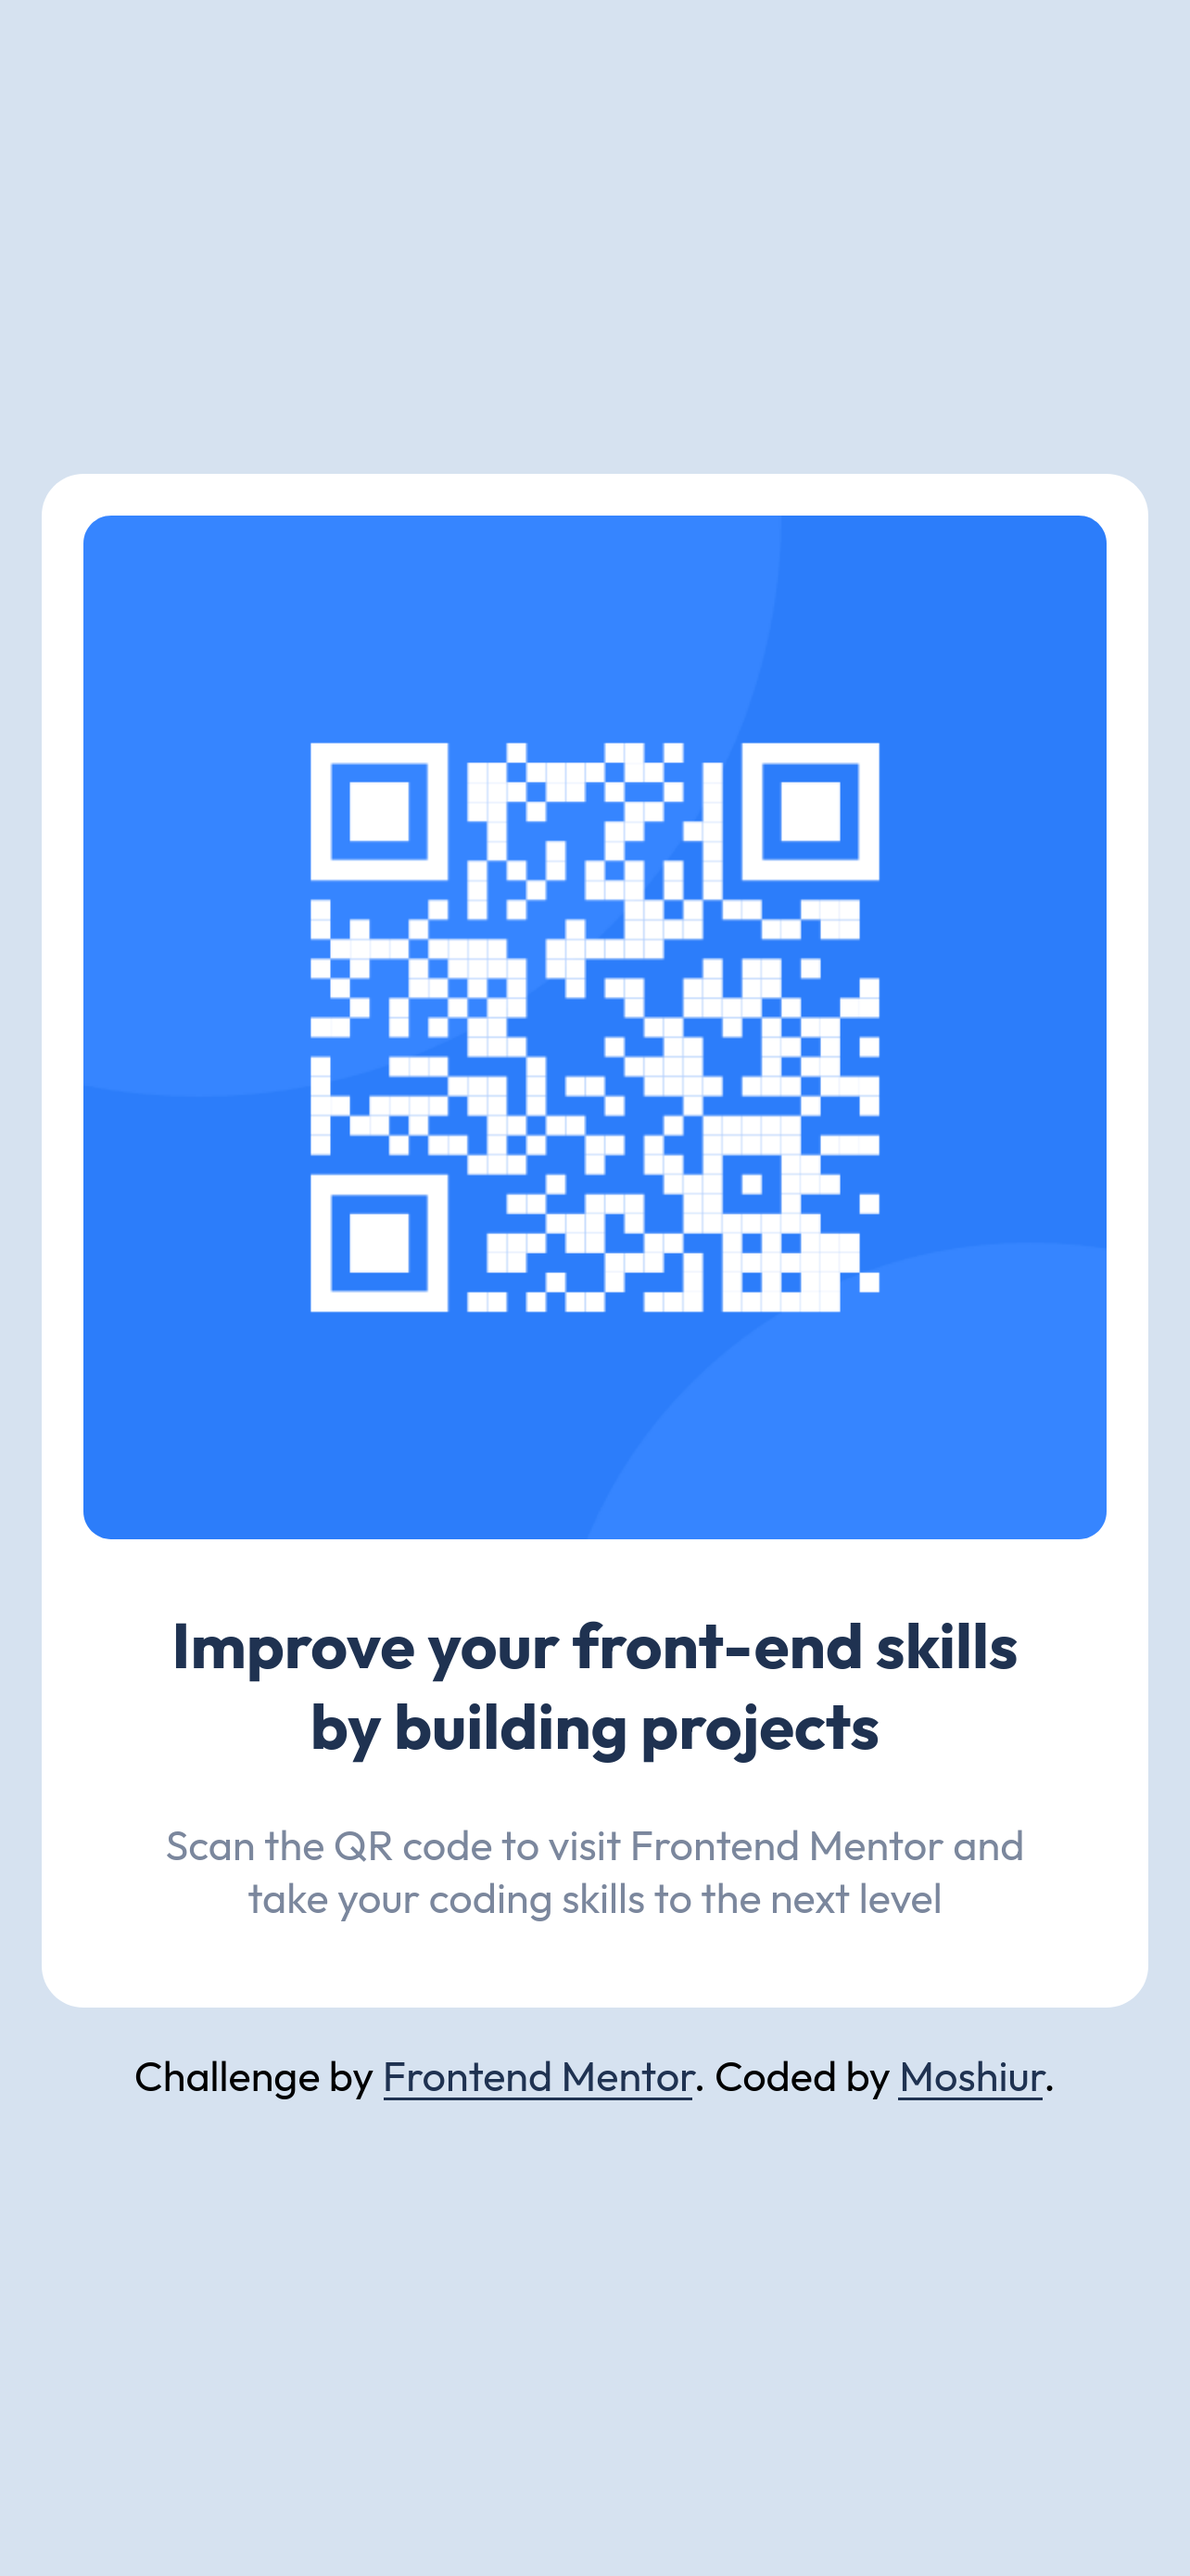
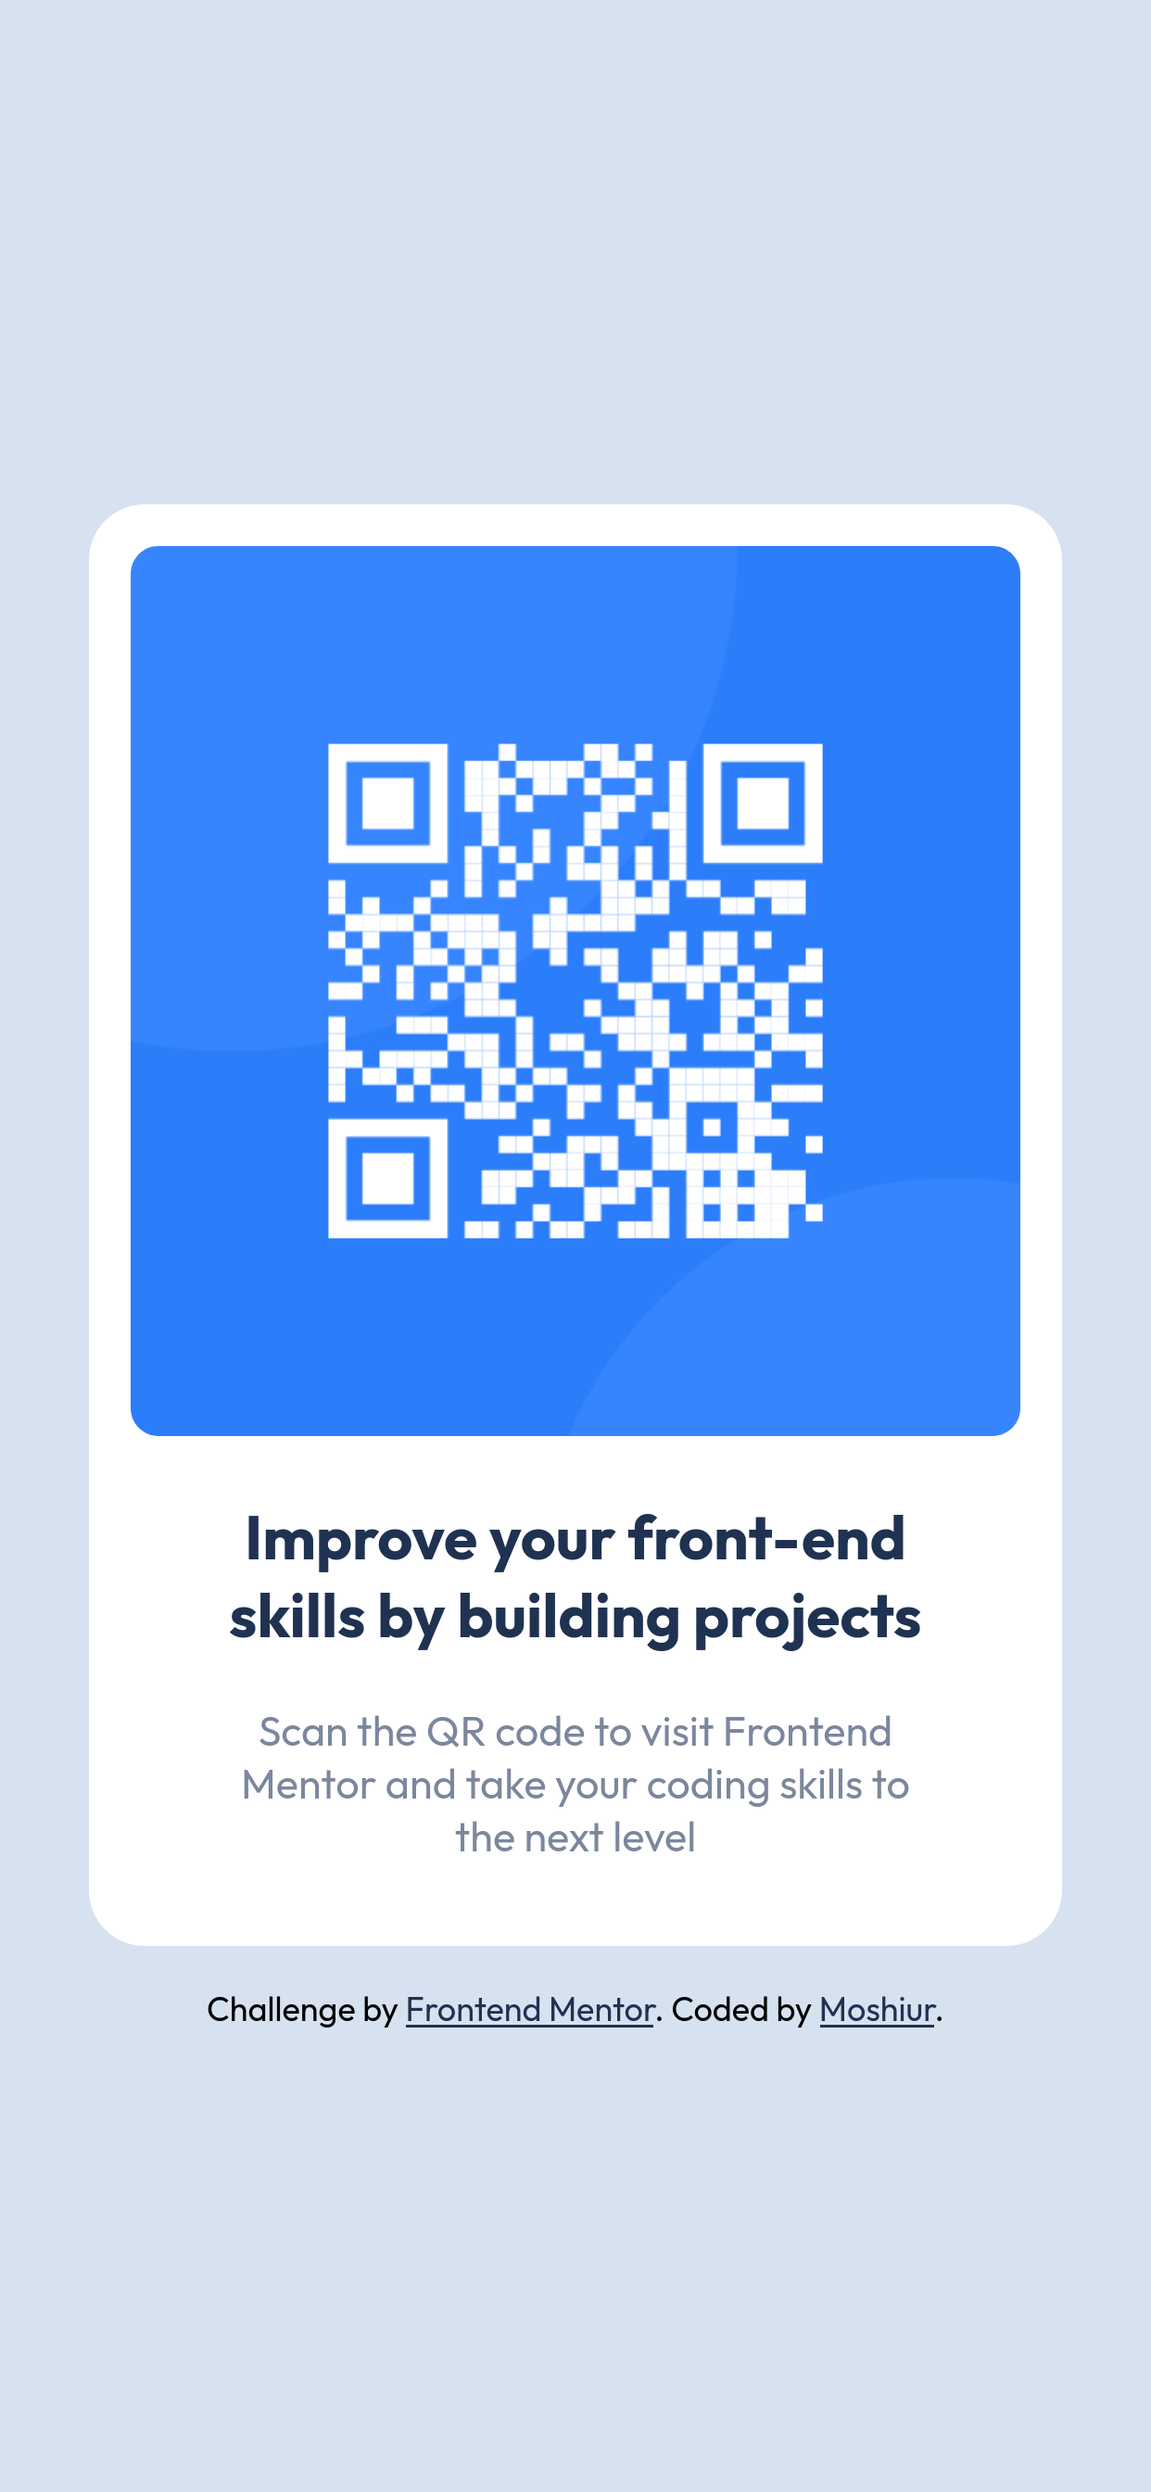
Modify the layout more basaed on the figma design

Changed region(s): [[0.0306, 0.1562, 0.9791, 0.7812], [0.2448, 0.2812, 0.7649, 0.5312], [0.1224, 0.7812, 0.8567, 0.8125]]

diff --git a/index.html b/index.html
@@ -42,16 +42,12 @@
         background-color: var(--light-gray);
       }
       .card {  
-        max-width: 37.5rem;
+        max-width: 32rem;
         padding: 1.5rem;
-        border-radius: 1.5rem;
+        border-radius: 2rem;
         margin: 1.5rem;
         text-align: center;
         background-color: var(--white);
-      }
-      section {
-        width: 90%;
-        margin: auto;
       }
       figure {
         margin: 0;
@@ -61,24 +57,24 @@
         object-fit: cover;
         border-radius: 1rem;
       }
-      h1 {
-        font-size: 2.3rem;
-        color: var(--dark-blue);
+      section {
+        max-width: 25.6rem;
+        margin: auto;
       }
-      @media screen and (min-width: 48rem) {
-        h1 {
-          font-size: 2.8rem;
-        }
+      h1 {
+        font-size: 2.2rem;
+        color: var(--dark-blue);
       }
       p {
         color: var(--grayish-blue);
       }
       .attribution {
         text-align: center;
-        margin-bottom: 1.5rem;
+        font-size: 1.2rem;
+        margin: 0 1.5rem;
       }
       .attribution a { 
-        color: var(--dark-blue); 
+        color: var(--dark-blue);
       }
     </style>
   </head>
